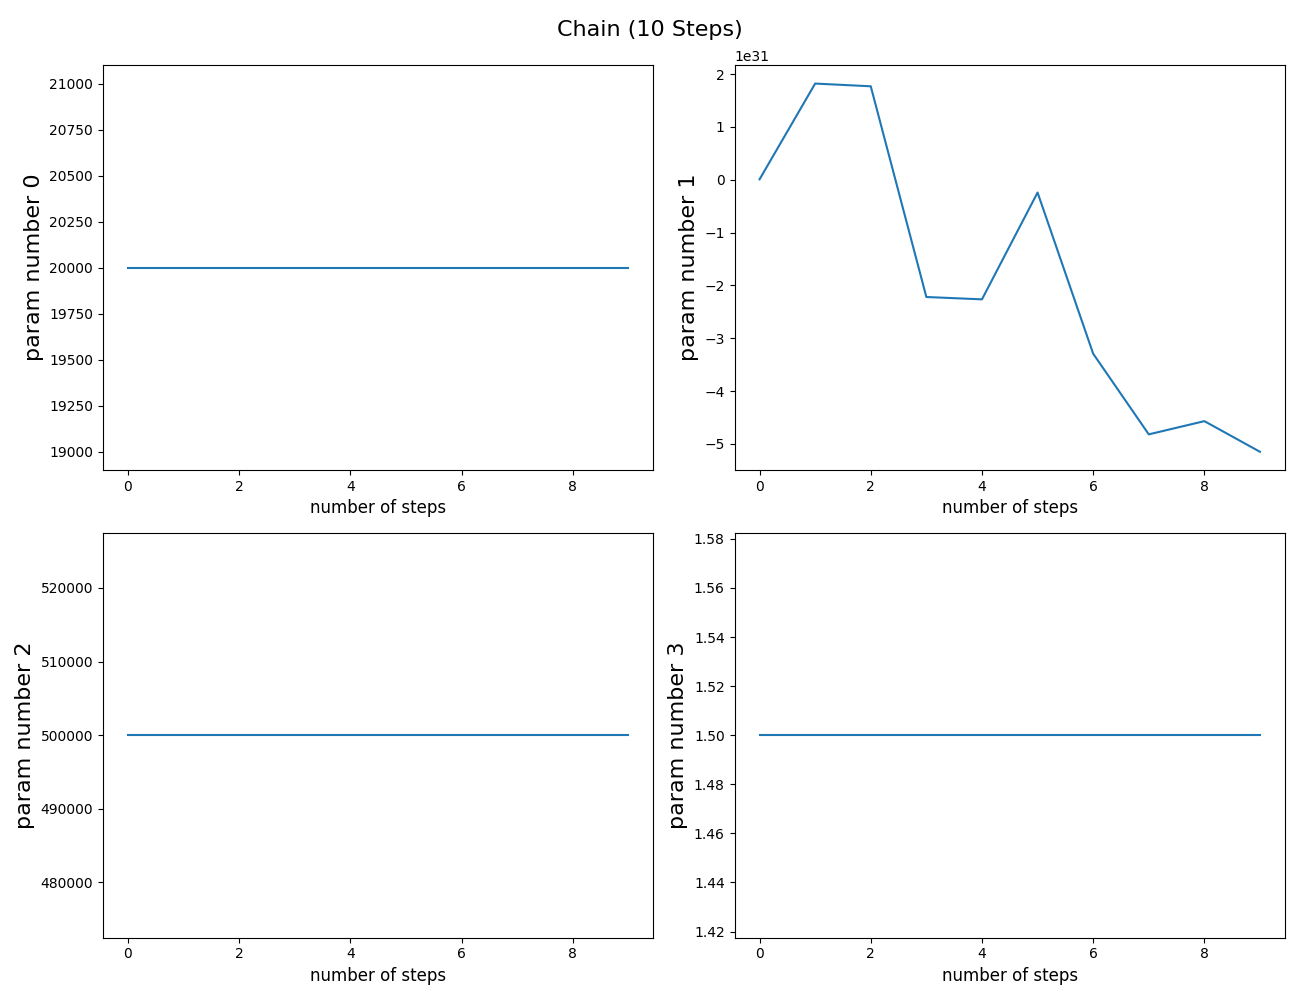
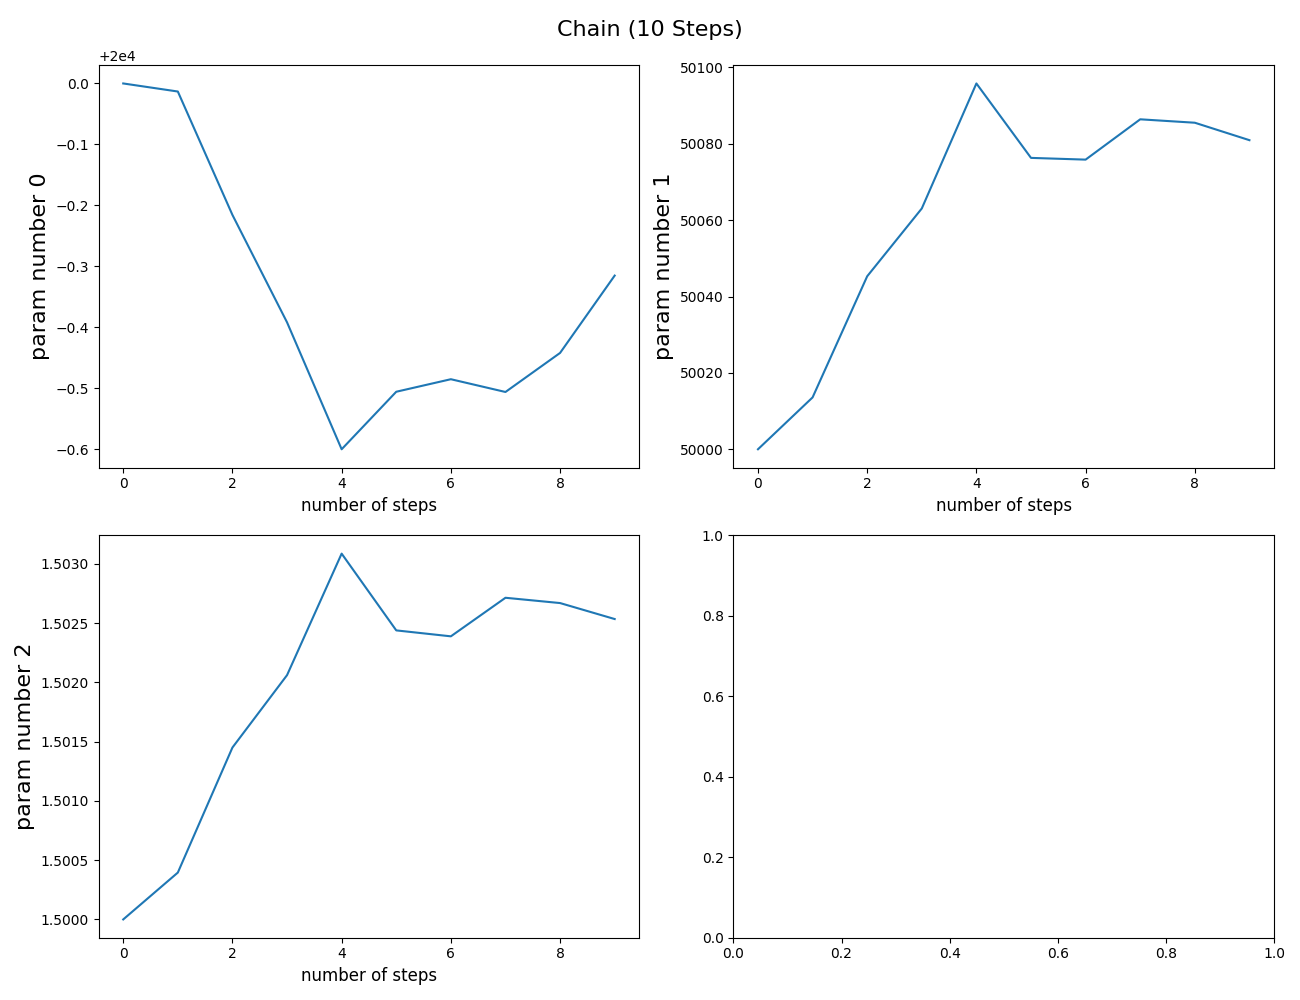
ommited the second parameter

diff --git a/code_history/known_curve/mcmc.py b/code_history/known_curve/mcmc.py
@@ -211,12 +211,15 @@ def mcmc(fun_chisq, start_guess, covariance_matrix, data, Ninv, nstep):
     return chain, chisq, acceptance_ratio/nstep
 
 # %%
-dict_true = {'pop_rad_yield_0_': 1E4, 'pop_rad_yield_1_': 1E29, 'pop_rad_yield_2_': 1E5, 'clumping_factor': 1.7} 
+#dict_true = {'pop_rad_yield_0_': 1E4, 'pop_rad_yield_1_': 1E29, 'pop_rad_yield_2_': 1E5, 'clumping_factor': 1.7} 
+dict_true = {'pop_rad_yield_0_': 1E4, 'pop_rad_yield_2_': 1E5, 'clumping_factor': 1.7} 
+
 m_true, key = dict_to_list(dict_true)
 m_true = np.array(m_true, copy=True, dtype = 'float64')
 y_true = call_ares(list_to_dict(m_true, key), z_e)
 #m_0 = m_true * (1 +  0.1* np.random.randn(len(m_true)))
-m_0 = [2E4, 7E28, 5E5, 1.5]
+#m_0 = [2E4, 7E28, 5E5, 1.5]
+m_0 = [2E4, 5E4, 1.5]
 err = 1E-3
 Ninv = ((err)**(-2))*np.eye(len(z_e))
 
@@ -230,14 +233,9 @@ Ninv = ((err)**(-2))*np.eye(len(z_e))
 #error bars
 #mycovinv= np.linalg.inv(mycov)
 #np.sqrt(np.diag(mycovinv))
-mycovinv = np.array([[ 3.08793956e-03,  9.10388084e+29, -7.13314643e-02,
-        -1.65433009e-06],
-       [ 9.10388084e+29,  5.53623942e+62, -3.26975218e+31,
-        -6.79950805e+26],
-       [-7.13314643e-02, -3.26975218e+31,  7.26807773e+00,
-         1.86365177e-04],
-       [-1.65433009e-06, -6.79950805e+26,  1.86365177e-04,
-         4.87418948e-09]])
+mycovinv = np.array([[ 1.40465926e-02, -1.77291230e+00, -5.60601974e-05],
+       [-1.77291230e+00,  2.64334772e+02,  8.26635223e-03],
+       [-5.60601974e-05,  8.26635223e-03,  2.59424115e-07]])
 
 # %%
 #MCMC inputs 
@@ -361,7 +359,7 @@ plt.savefig('/scratch/o/oscarh/aryanah/output_1/fourier.png')
 # %%----------------------------------------------------------------------------------------------------------------------
 #params_cut = params[1000:, :]
 params_cut = np.copy(params)
-fig5, ax_list = plt.subplots(3, 2, figsize=(10,10))
+fig5, ax_list = plt.subplots(2, 2, figsize=(10,10))
 fig5.suptitle('Corner plots of the chain', fontsize=16)
 
 ax_list[0, 0].plot(params_cut[:, 0], params_cut[:, 1], linestyle = "", marker=".")
@@ -372,21 +370,21 @@ ax_list[0, 1].plot(params_cut[:, 0], params_cut[:, 2], linestyle = "", marker=".
 ax_list[0, 1].set_ylabel('param 2', fontsize=12)
 ax_list[0, 1].set_xlabel('param 0', fontsize=12)
     
-ax_list[1, 0].plot(params_cut[:, 0], params_cut[:, 3], linestyle = "", marker=".")
-ax_list[1, 0].set_ylabel('param 3', fontsize=12)
-ax_list[1, 0].set_xlabel('param 0', fontsize=12)
+#ax_list[1, 0].plot(params_cut[:, 0], params_cut[:, 3], linestyle = "", marker=".")
+#ax_list[1, 0].set_ylabel('param 3', fontsize=12)
+#ax_list[1, 0].set_xlabel('param 0', fontsize=12)
 
-ax_list[1, 1].plot(params_cut[:, 1], params_cut[:, 2], linestyle = "", marker=".")
+ax_list[1, 1].plot(params_cut[:, 1], params_cut[:, 0], linestyle = "", marker=".")
 ax_list[1, 1].set_ylabel('param 2', fontsize=12)
 ax_list[1, 1].set_xlabel('param 1', fontsize=12)
 
-ax_list[2, 0].plot(params_cut[:, 1], params_cut[:, 3], linestyle = "", marker=".")
-ax_list[2, 0].set_ylabel('param 3', fontsize=12)
-ax_list[2, 0].set_xlabel('param 1', fontsize=12)
+#ax_list[2, 0].plot(params_cut[:, 1], params_cut[:, 3], linestyle = "", marker=".")
+#ax_list[2, 0].set_ylabel('param 3', fontsize=12)
+#ax_list[2, 0].set_xlabel('param 1', fontsize=12)
 
-ax_list[2, 1].plot(params_cut[:, 2], params_cut[:, 3], linestyle = "", marker=".")
-ax_list[2, 1].set_ylabel('param 3', fontsize=12)
-ax_list[2, 1].set_xlabel('param 2', fontsize=12)
+#ax_list[2, 1].plot(params_cut[:, 2], params_cut[:, 3], linestyle = "", marker=".")
+#ax_list[2, 1].set_ylabel('param 3', fontsize=12)
+#ax_list[2, 1].set_xlabel('param 2', fontsize=12)
 
 plt.tight_layout()
 #plt.savefig('corner_plots.png')
